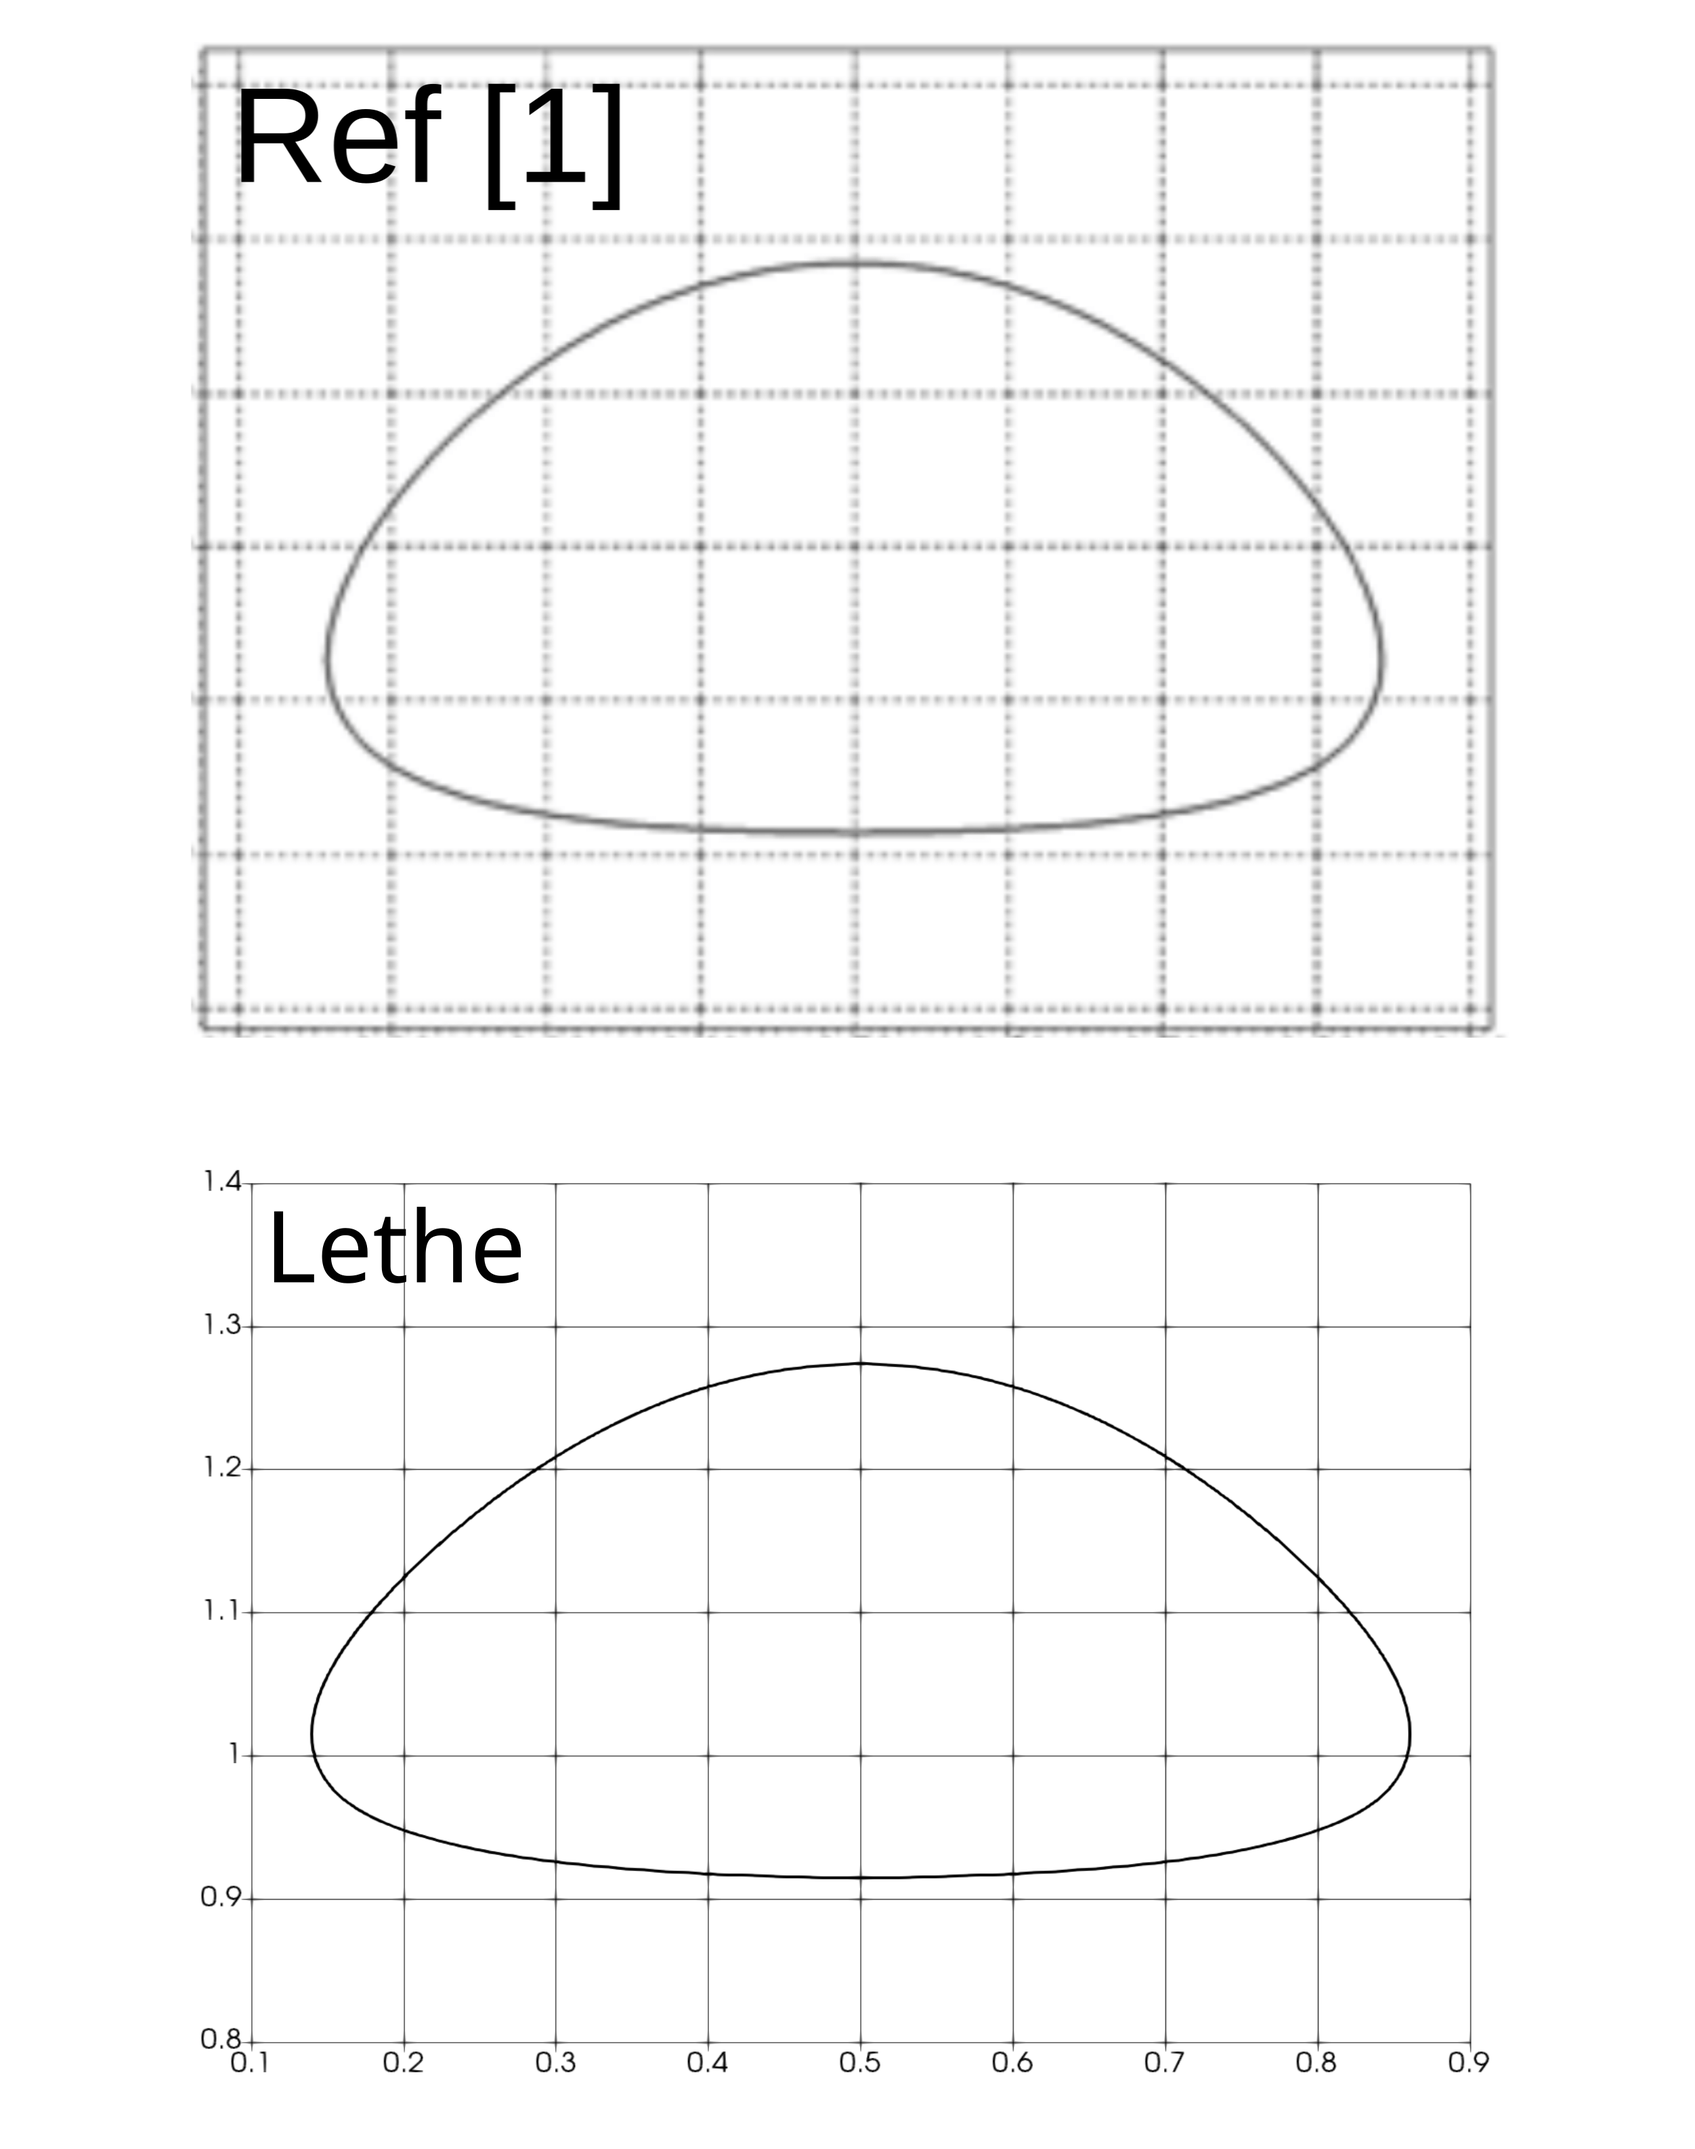
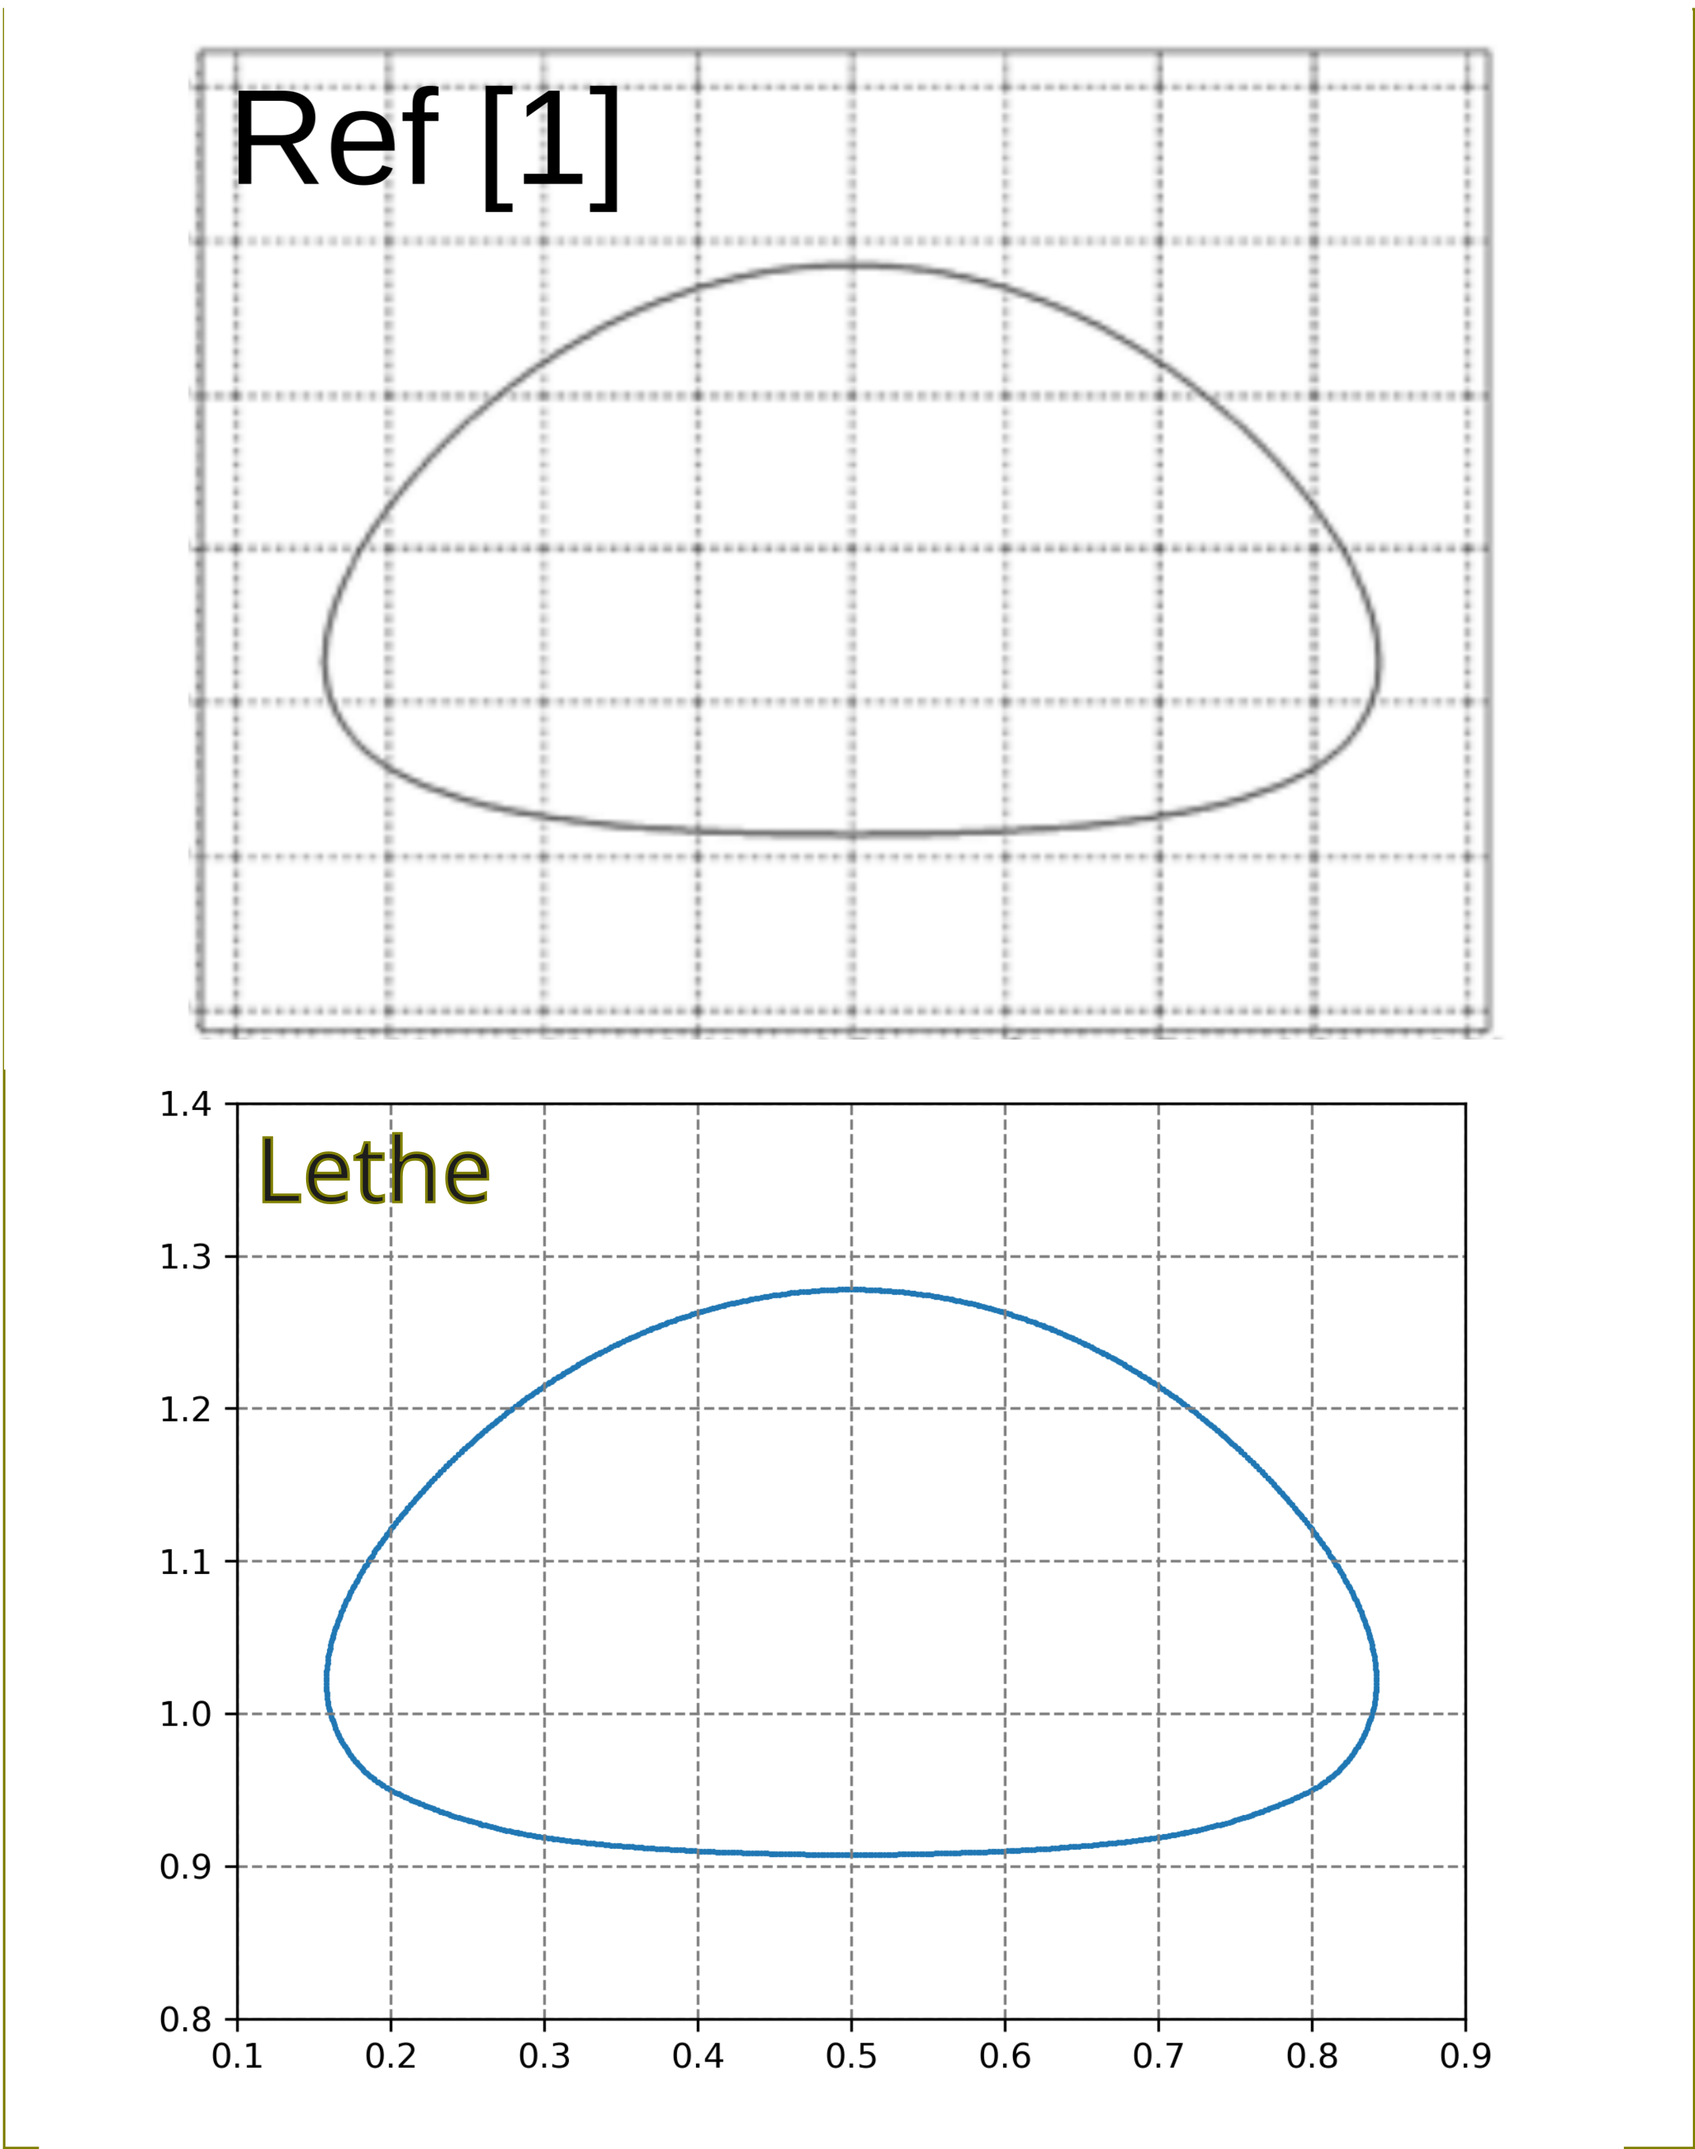
Finished rising bubble example

diff --git a/examples/multiphysics/rising-bubble/rising-bubble.py b/examples/multiphysics/rising-bubble/rising-bubble.py
@@ -9,10 +9,13 @@ Postprocessing code for rising-bubble example
 import numpy as np
 import sys
 import matplotlib.pyplot as plt
+import pyvista as pv
+import os
 #############################################################################
 
 #Take case path as argument and store it
-filename = sys.argv[1]
+output_dir = sys.argv[1]
+filename = output_dir + "/vof_barycenter_information.dat"
 t,x,y,vx,vy=np.loadtxt(filename,skiprows=1,unpack=True)
 
 #Data from Zahedi, Kronbichler and Kreiss (2012)
@@ -28,13 +31,6 @@ x_vel_H = [0.24535, 0.49537, 0.74679   ,0.99191   ,1.2424,   1.49542   ,1.74728 
 y_vel_H = [0.114461, 0.196094, 0.23631, 0.241153, 0.231292, 0.218334, 0.206795, 0.197974, 0.193075, 0.191356, 0.192096]
 
 
-
-
-
-
-
-
-
 fig0 = plt.figure()
 ax0 = fig0.add_subplot(111)
 ax0.plot(t, y, '-k', lw=2, label="Lethe")
@@ -44,7 +40,7 @@ ax0.plot(x_ref_H, y_ref_H, 's',alpha=0.8,label="Reference - Hysing et al. (2009)
 ax0.set_ylabel(r'Bubble barycenter height')
 ax0.set_xlabel(r'$t$')
 ax0.legend(loc="upper left")
-fig0.savefig(f'./ymean-t.png')
+fig0.savefig(f'./ymean-t.png',dpi=300)
 plt.show()
 
 fig1 = plt.figure()
@@ -57,5 +53,33 @@ ax1.set_ylabel(r'Rise velocity')
 ax1.set_xlabel(r'$t$')
 ax1.legend(loc="upper left")
 ax1.legend(loc=4)
-fig1.savefig(f'./bubble-rise-velocity.png')
+fig1.savefig(f'./bubble-rise-velocity.png',dpi=300)
 plt.show()
+
+
+# Make the plot of the contour of the bubble
+list_vtu = os.listdir(output_dir)
+list_vtu = [(output_dir+"/"+x) for x in list_vtu if  ("vtu" in x and "pvtu" not in x) ]
+latest_file = max(list_vtu, key=os.path.getctime)
+print("Opening file: ", latest_file)
+sim = pv.read(latest_file)
+sim.set_active_scalars("filtered_phase")
+
+contour_val = np.array([0.5])
+contours = sim.contour(contour_val)
+x, y = contours.points[:, 0], contours.points[:, 1]
+
+fig3 = plt.figure()
+ax3 = fig3.add_subplot(111)
+
+ax3.scatter(x, y, s=2, marker=".")
+ax3.grid( which='major', color='grey', linestyle='--')
+ax3.set_xlim([0.1,0.9])
+ax3.set_ylim([0.8,1.4])
+fig3.savefig("bubble_contour.png",dpi=300)
+plt.show()
+
+#pl = pv.Plotter()
+#pl.add_mesh(sim, opacity=0.1)
+#pl.add_mesh(contours, color="white", line_width=5)
+#pl.show()

diff --git a/doc/source/examples/multiphysics/rising-bubble/rising-bubble.rst b/doc/source/examples/multiphysics/rising-bubble/rising-bubble.rst
@@ -104,7 +104,7 @@ In Lethe, the surface tension force (:math:`{\bf{F_{\sigma}}}`) is calculated us
 
 .. math::
 
-    {\bf{F_{\sigma}}} = 2 \frac{\rho}{\rho_0 + \rho_1} \sigma k \nabla {\phi}
+    {\bf{F_{\sigma}}} = \sigma k \nabla {\phi}
 
 where :math:`\sigma`, :math:`k` and :math:`\nabla {\phi}` denote respectively the surface tension coefficient, the filtered curvature and the phase fraction gradient. :math:`\rho`, :math:`\rho_1`, and :math:`\rho_2` are the density of the flow, the density of phase 0, and the density of phase 1, respectively.
 
@@ -157,7 +157,7 @@ The interface sharpening method and its parameters are explained in the :doc:`..
       set enable              = true
       set threshold           = 0.5
       set interface sharpness = 1.5
-      set frequency           = 25
+      set frequency           = 50
     end
 
     subsection phase filtration
@@ -175,15 +175,13 @@ The interface sharpening method and its parameters are explained in the :doc:`..
     end
   end
 
-.. warning:: 
-     If the interface sharpening is not enabled, the interface between phases will become blurry (due to artificial diffusion). 
-
 """"""""""""""""""""""""""""""""
 Initial condition
 """"""""""""""""""""""""""""""""
 In the ``initial condition``, the initial velocity and initial position 
 of the liquid phase are defined. The light phase is initially 
-defined as a circle with a radius :math:`r= 0.25` at :math:`(x,y)=(0.5, 0.5)`.
+defined as a circle with a radius :math:`r= 0.25` at :math:`(x,y)=(0.5, 0.5)`. We enable the use of a projection step to ensure that the initial phase distribution 
+sufficiently smooth.
 
 .. code-block:: text
 
@@ -197,6 +195,11 @@ defined as a circle with a radius :math:`r= 0.25` at :math:`(x,y)=(0.5, 0.5)`.
       end
       subsection VOF
         set Function expression = if ((x-0.5) * (x-0.5) + (y-0.5) * (y-0.5) < 0.25 * 0.25 , 1, 0)
+      
+        subsection projection step
+          set enable           = true
+          set diffusion factor = 1
+        end
       end
     end
 
@@ -250,8 +253,8 @@ This makes our initial mesh composed of perfect squares. We proceed then to rede
     end
     
 In the ``mesh adaptation subsection``, adaptive mesh refinement is 
-defined for ``phase``. ``min refinement level`` and ``max refinement level`` are 6 and 8, respectively. Since the bubble rises and changes its location, we choose a rather large ``fraction refinement`` (0.97) and moderate ``fraction coarsening`` (0.02).
-To capture the bubble adequately, we set ``initial refinement steps = 3`` so that the initial mesh is adapted three times to ensure that the initial condition is imposed for the VOF phase with maximal accuracy.
+defined for ``phase``. ``min refinement level`` and ``max refinement level`` are 6 and 9, respectively. Since the bubble rises and changes its location, we choose a rather large ``fraction refinement`` (0.999) and moderate ``fraction coarsening`` (0.001).
+To capture the bubble adequately, we set ``initial refinement steps = 5`` so that the initial mesh is adapted to ensure that the initial condition is imposed for the VOF phase with maximal accuracy.
 
 .. code-block:: text
 
@@ -265,8 +268,8 @@ To capture the bubble adequately, we set ``initial refinement steps = 3`` so tha
       set max refinement level     = 9
       set min refinement level     = 6
       set frequency                = 1
-      set fraction refinement      = 0.999
-      set fraction coarsening      = 0.001
+      set fraction refinement      = 0.99
+      set fraction coarsening      = 0.01
       set initial refinement steps = 5
     end
 
@@ -317,7 +320,7 @@ The following image shows the shape and dimensions of the bubble after 3 seconds
     :width: 400
 
 A python post-processing code `(rising-bubble.py)` is added to the example folder to post-process the data files generated by the barycenter post-processing.
-Run ``python3 ./rising-bubble.py ./output/vof_barycenter_information.dat`` to execute this post-processing code, where ``./output`` is the directory that 
+Run ``python3 ./rising-bubble.py output`` to execute this post-processing code, where ``output`` is the directory that 
 contains the simulation results. The results for the barycenter position and velocity of the bubble are compared with the simulations of Zahedi, Kronbichler, and Kreiss [`2 <https://doi.org/10.1002/fld.2643>`_] and Hysing et al. [`3 <https://doi.org/10.1002/fld.1934>`_]. The following images show the results of these comparisons. The agreement between the two simulations is remarkable considering the coarse mesh used within this example.
 
 .. image:: images/ymean-t.png
@@ -334,7 +337,7 @@ Animation of the rising bubble example:
 
 .. raw:: html
 
-    <iframe width="800" height="450" src="https://www.youtube.com/embed/eIbDitoYsEA"  frameborder="0" allowfullscreen></iframe>
+    <iframe width="800" height="450" src="https://www.youtube.com/embed/o73WJ36-2zo"  frameborder="0" allowfullscreen></iframe>
 
 -----------
 References
